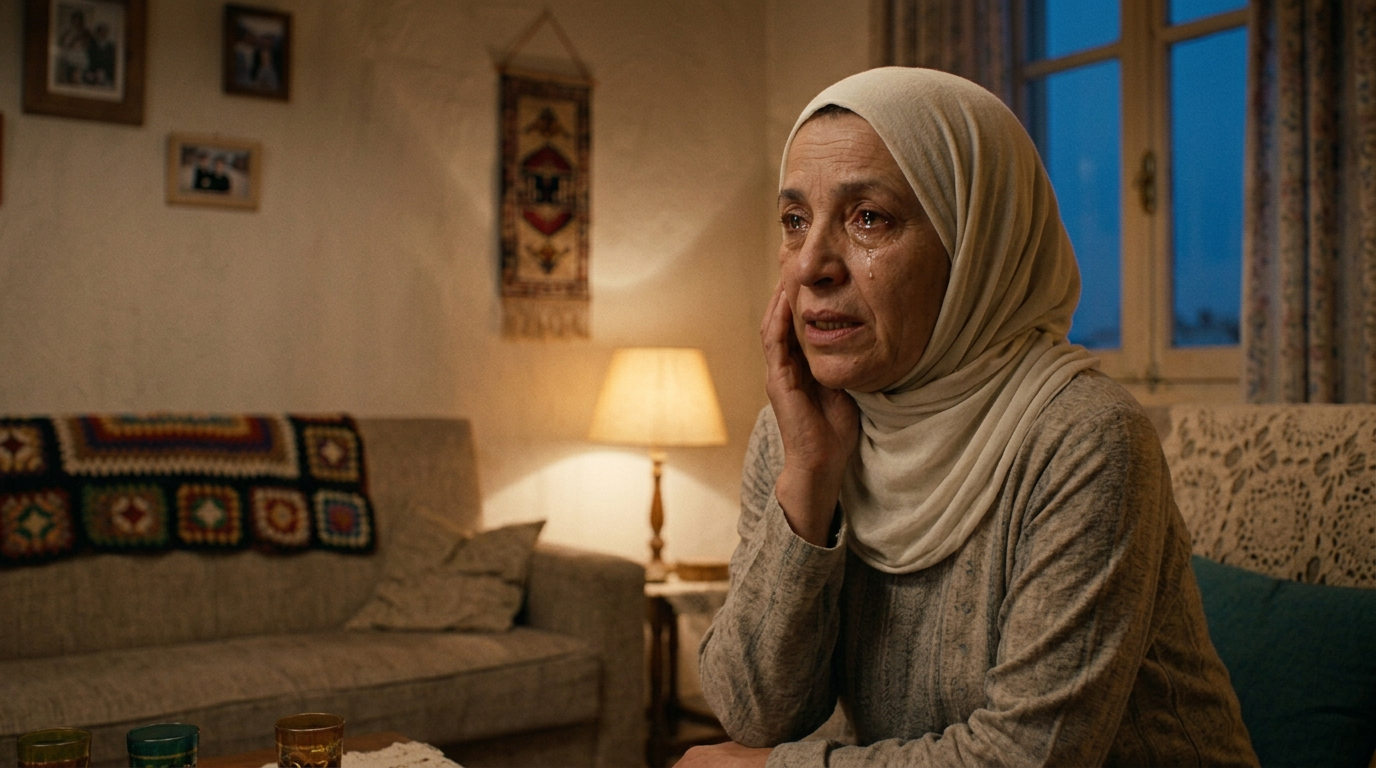
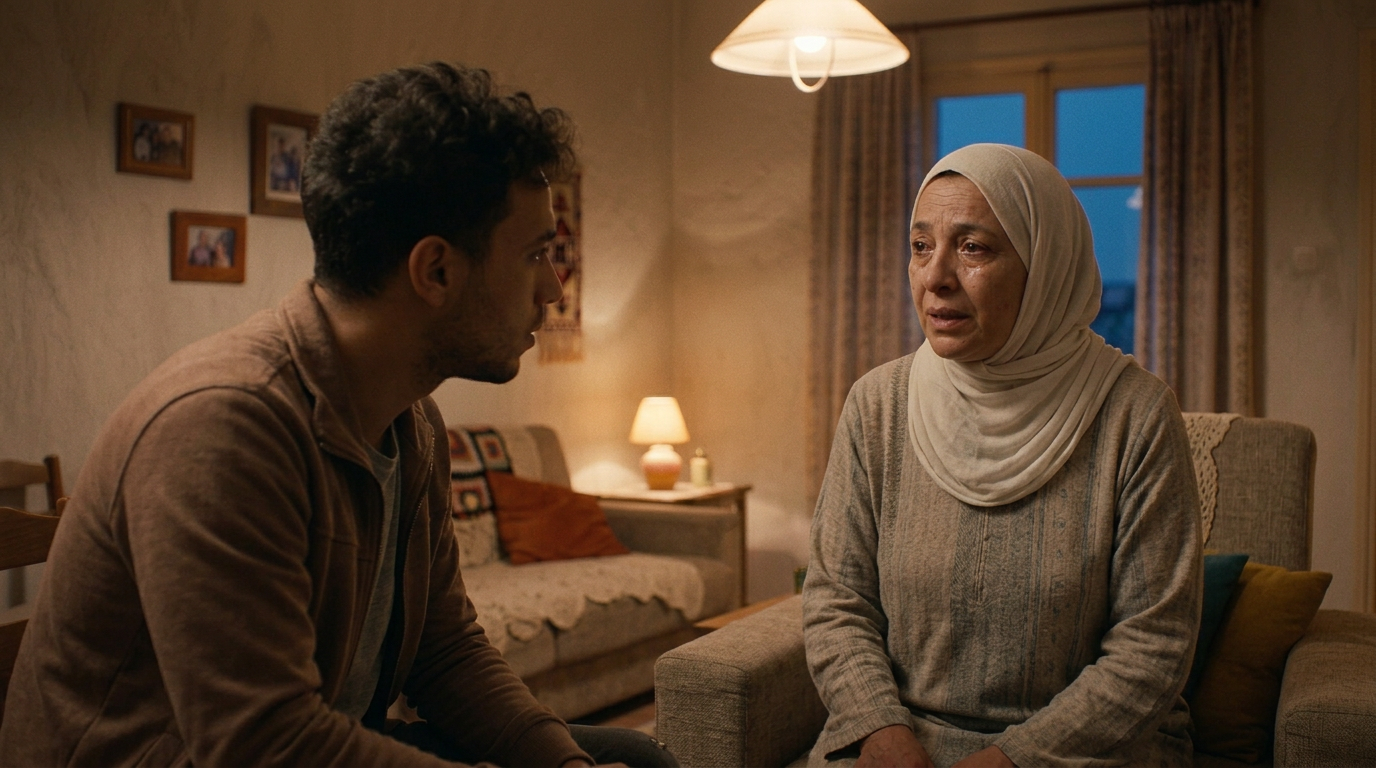
Batch 12: SC19-SC21 rebuilt on V4 anchor (client SC17 production look) + YACINE_WORK outfit reference + SC22-27 client prompts added + continuity table updated

diff --git a/ATHAR_AL_ZAYT_FINAL_FILM/04_FLOW_VIDEO_PROMPTS/SC27_FLOW_PROMPT.md b/ATHAR_AL_ZAYT_FINAL_FILM/04_FLOW_VIDEO_PROMPTS/SC27_FLOW_PROMPT.md
@@ -1,0 +1,60 @@
+# SCENE 27 — الخاتمة المكتملة
+**فيلم «آثار الزيت» | Google Flow | 10 ثوانٍ بالضبط | أفقي 16:9 | نسخة مراجعة الاستمرارية**
+
+## ملخص المشهد
+لقطة سينمائية أفقية واسعة داخل الورشة في ضوء الصباح. الحاج بسترة خضراء وقميص أبيض، أمين ببدلة كحلية والقماش الأحمر في الجيب الخلفي، ياسين ببدلة العمل الجديدة. كل الوجوه مطابقة للمراجع.
+
+## تقسيم الحركة والحوار (10 ثوانٍ)
+- 0–3 ث: لقطة واسعة ثابتة؛ الحاج يراقب أمين وهو يشرح لياسين، ثم يقترب خطوتين بهدوء.
+- 3–7 ث: الحاج يضع يده على كتف ياسين برفق ويقول: «خلي الماضي درس ليك، وابدأ من جديد بالحلال.» ياسين يومئ باحترام.
+- 7–10 ث: لقطة ثابتة واسعة على الثلاثة وهم يرجعون إلى العمل. ابتسامة خفيفة طبيعية، لا مصافحة مبالغ فيها ولا لقطة تتلاشى إلى سواد قبل نهاية المدة.
+
+## GOOGLE FLOW VIDEO PROMPT — COPY READY
+```text
+Create a photorealistic live-action scene from the approved reference images for the Algerian short film “Athar Al-Zayt”. Duration exactly 10 seconds. Horizontal landscape 16:9 only, cinematic widescreen composition.
+
+CONTINUITY IS MANDATORY:
+Use the attached approved reference images for the exact identity of every character and location. Do not redesign faces. Hadj is about 60, wearing the same dark-green casual jacket over a white shirt. Amine is a young mechanic wearing the same dark navy-blue coveralls, with the red cloth visible from his rear pocket. Yassine is a 19-year-old Algerian young man, not a child; his pre-job outfit is a faded brown jacket over a gray T-shirt and dark trousers. His mother wears the same modest beige-gray home dress and light headscarf. The little sister is about two years old. For the later workshop scenes, Yassine wears the approved simple dark navy work outfit. Keep all approved face references exact.
+
+LOCATION / PROPS:
+لقطة سينمائية أفقية واسعة داخل الورشة في ضوء الصباح. الحاج بسترة خضراء وقميص أبيض، أمين ببدلة كحلية والقماش الأحمر في الجيب الخلفي، ياسين ببدلة العمل الجديدة. كل الوجوه مطابقة للمراجع.
+Keep the established room geometry, door positions, furniture, props, light direction and screen geography exactly consistent with the reference images. The money box is wooden with a top lid and handle. In the workshop office it stays on the LEFT side of the wooden desk; the CCTV monitor stays mounted on the wall to the RIGHT of the desk. Do not move or duplicate these objects.
+
+ACTION AND TIMING:
+- 0–3 ث: لقطة واسعة ثابتة؛ الحاج يراقب أمين وهو يشرح لياسين، ثم يقترب خطوتين بهدوء.
+- 3–7 ث: الحاج يضع يده على كتف ياسين برفق ويقول: «خلي الماضي درس ليك، وابدأ من جديد بالحلال.» ياسين يومئ باحترام.
+- 7–10 ث: لقطة ثابتة واسعة على الثلاثة وهم يرجعون إلى العمل. ابتسامة خفيفة طبيعية، لا مصافحة مبالغ فيها ولا لقطة تتلاشى إلى سواد قبل نهاية المدة.
+
+DIALOGUE — natural Algerian Darja only, spoken by native Algerian voices, never Modern Standard Arabic:
+الحاج: «خلي الماضي درس ليك، وابدأ من جديد بالحلال.»
+Only the named speaker speaks during their line. Lip-sync only the visible speaking character. For off-screen dialogue, visible characters must keep their lips still. Keep speech short enough to fit naturally inside the indicated timing; do not overlap lines or invent extra dialogue.
+
+CAMERA:
+Use only the simple camera movement explicitly described in the timed beats. Prefer locked-off shots or one slow motivated move. No orbiting, whip pans, fast zooms, speed ramps, sudden reframing or impossible camera movement. If the beats call for a hard cut, make one clean hard cut only. Keep the geography understandable.
+
+SOUND:
+Use realistic location ambience and the specific small sound effects implied by the action. Keep dialogue clear and in front of the ambience. No loud music, no cartoon effects, no added narration, no extra dialogue. Avoid music during emotional confession scenes.
+
+ENDING FRAME / MATCH CUT:
+آخر إطار: الحاج وأمين وياسين في الورشة، مستعدين للعمل؛ النهاية مغلقة وواضحة: المال رجع، ياسين اعترف وقُبلت توبته وعنده عمل قانوني.
+End on a stable, readable frame that can be edited directly into the next numbered clip. Do not fade out unless this is the final scene.
+
+FORMAT: Horizontal landscape 16:9 only. Never vertical 9:16, never portrait, never square. Keep faces, hands and important props inside the frame.
+```
+
+## NEGATIVE PROMPT — COPY READY
+```text
+No vertical 9:16, no portrait, no square, no reframing to mobile format. No character identity drift, no face changes, no age changes, no clothing changes except the explicitly approved next-day work outfit for Yassine in scenes 25–27. Yassine is 19, not a child. No extra people, no duplicate bodies, no extra fingers, no fused hands, no distorted faces, no floating objects, no prop teleportation, no changing room layout, no moving the wooden desk, money box or wall-mounted monitor. No subtitles, no captions, no watermark, no logos, no random readable text. No Modern Standard Arabic, no Egyptian or Gulf accent. No overlapping dialogue, no lip movement by a silent character. No exaggerated crying, no slapstick, no violence, no threatening gestures. Do not make the customer the thief. Do not end on a cliffhanger.
+```
+
+## 🔗 الربط بالمشهد التالي
+آخر إطار: الحاج وأمين وياسين في الورشة، مستعدين للعمل؛ النهاية مغلقة وواضحة: المال رجع، ياسين اعترف وقُبلت توبته وعنده عمل قانوني.
+
+## فحص سريع قبل اعتماد الفيديو
+- [ ] المدة 10 ثوانٍ بالضبط.
+- [ ] الإطار أفقي 16:9.
+- [ ] الوجوه والملابس مطابقة للمراجع.
+- [ ] المكان والأغراض في المواضع الصحيحة.
+- [ ] الحوار دارجة جزائرية ومزامنة الشفاه صحيحة.
+- [ ] الحركة بسيطة ومنطقية.
+- [ ] آخر إطار متوافق مع بداية المشهد التالي.

diff --git a/ATHAR_AL_ZAYT_FINAL_FILM/04_FLOW_VIDEO_PROMPTS/SC26_FLOW_PROMPT.md b/ATHAR_AL_ZAYT_FINAL_FILM/04_FLOW_VIDEO_PROMPTS/SC26_FLOW_PROMPT.md
@@ -1,0 +1,60 @@
+# SCENE 26 — بداية العمل والتعلّم
+**فيلم «آثار الزيت» | Google Flow | 10 ثوانٍ بالضبط | أفقي 16:9 | نسخة مراجعة الاستمرارية**
+
+## ملخص المشهد
+داخل الورشة نفسها صباحًا. أمين ببدلة كحلية مع قطعة قماش حمراء في الجيب الخلفي؛ ياسين يرتدي بدلة عمل كحلية بسيطة متناسقة. لا توجد أدوات خطرة في أيدي غير المدرّبين.
+
+## تقسيم الحركة والحوار (10 ثوانٍ)
+- 0–3 ث: لقطة متوسطة ثابتة؛ أمين يشير إلى أداة يدوية آمنة على طاولة العمل ويشرح لياسين.
+- 3–7 ث: أمين يناوله الأداة بطريقة واضحة، وياسين يستلمها بيده اليمنى وينظر إلى القطعة باهتمام.
+- 7–10 ث: أمين يقول: «تعلّم شوية بشوية، الخدمة بالأمانة.» ياسين يجيب: «إن شاء الله، نكون قدّها.»
+
+## GOOGLE FLOW VIDEO PROMPT — COPY READY
+```text
+Create a photorealistic live-action scene from the approved reference images for the Algerian short film “Athar Al-Zayt”. Duration exactly 10 seconds. Horizontal landscape 16:9 only, cinematic widescreen composition.
+
+CONTINUITY IS MANDATORY:
+Use the attached approved reference images for the exact identity of every character and location. Do not redesign faces. Hadj is about 60, wearing the same dark-green casual jacket over a white shirt. Amine is a young mechanic wearing the same dark navy-blue coveralls, with the red cloth visible from his rear pocket. Yassine is a 19-year-old Algerian young man, not a child; his pre-job outfit is a faded brown jacket over a gray T-shirt and dark trousers. His mother wears the same modest beige-gray home dress and light headscarf. The little sister is about two years old. For the later workshop scenes, Yassine wears the approved simple dark navy work outfit. Keep all approved face references exact.
+
+LOCATION / PROPS:
+داخل الورشة نفسها صباحًا. أمين ببدلة كحلية مع قطعة قماش حمراء في الجيب الخلفي؛ ياسين يرتدي بدلة عمل كحلية بسيطة متناسقة. لا توجد أدوات خطرة في أيدي غير المدرّبين.
+Keep the established room geometry, door positions, furniture, props, light direction and screen geography exactly consistent with the reference images. The money box is wooden with a top lid and handle. In the workshop office it stays on the LEFT side of the wooden desk; the CCTV monitor stays mounted on the wall to the RIGHT of the desk. Do not move or duplicate these objects.
+
+ACTION AND TIMING:
+- 0–3 ث: لقطة متوسطة ثابتة؛ أمين يشير إلى أداة يدوية آمنة على طاولة العمل ويشرح لياسين.
+- 3–7 ث: أمين يناوله الأداة بطريقة واضحة، وياسين يستلمها بيده اليمنى وينظر إلى القطعة باهتمام.
+- 7–10 ث: أمين يقول: «تعلّم شوية بشوية، الخدمة بالأمانة.» ياسين يجيب: «إن شاء الله، نكون قدّها.»
+
+DIALOGUE — natural Algerian Darja only, spoken by native Algerian voices, never Modern Standard Arabic:
+أمين: «تعلّم شوية بشوية، الخدمة بالأمانة.» ياسين: «إن شاء الله، نكون قدّها.»
+Only the named speaker speaks during their line. Lip-sync only the visible speaking character. For off-screen dialogue, visible characters must keep their lips still. Keep speech short enough to fit naturally inside the indicated timing; do not overlap lines or invent extra dialogue.
+
+CAMERA:
+Use only the simple camera movement explicitly described in the timed beats. Prefer locked-off shots or one slow motivated move. No orbiting, whip pans, fast zooms, speed ramps, sudden reframing or impossible camera movement. If the beats call for a hard cut, make one clean hard cut only. Keep the geography understandable.
+
+SOUND:
+Use realistic location ambience and the specific small sound effects implied by the action. Keep dialogue clear and in front of the ambience. No loud music, no cartoon effects, no added narration, no extra dialogue. Avoid music during emotional confession scenes.
+
+ENDING FRAME / MATCH CUT:
+آخر إطار: أمين وياسين جنبًا إلى جنب عند طاولة العمل؛ SC27 ينهي الفيلم بلقطة مكتملة داخل الورشة.
+End on a stable, readable frame that can be edited directly into the next numbered clip. Do not fade out unless this is the final scene.
+
+FORMAT: Horizontal landscape 16:9 only. Never vertical 9:16, never portrait, never square. Keep faces, hands and important props inside the frame.
+```
+
+## NEGATIVE PROMPT — COPY READY
+```text
+No vertical 9:16, no portrait, no square, no reframing to mobile format. No character identity drift, no face changes, no age changes, no clothing changes except the explicitly approved next-day work outfit for Yassine in scenes 25–27. Yassine is 19, not a child. No extra people, no duplicate bodies, no extra fingers, no fused hands, no distorted faces, no floating objects, no prop teleportation, no changing room layout, no moving the wooden desk, money box or wall-mounted monitor. No subtitles, no captions, no watermark, no logos, no random readable text. No Modern Standard Arabic, no Egyptian or Gulf accent. No overlapping dialogue, no lip movement by a silent character. No exaggerated crying, no slapstick, no violence, no threatening gestures. Do not make the customer the thief. Do not end on a cliffhanger.
+```
+
+## 🔗 الربط بالمشهد التالي
+آخر إطار: أمين وياسين جنبًا إلى جنب عند طاولة العمل؛ SC27 ينهي الفيلم بلقطة مكتملة داخل الورشة.
+
+## فحص سريع قبل اعتماد الفيديو
+- [ ] المدة 10 ثوانٍ بالضبط.
+- [ ] الإطار أفقي 16:9.
+- [ ] الوجوه والملابس مطابقة للمراجع.
+- [ ] المكان والأغراض في المواضع الصحيحة.
+- [ ] الحوار دارجة جزائرية ومزامنة الشفاه صحيحة.
+- [ ] الحركة بسيطة ومنطقية.
+- [ ] آخر إطار متوافق مع بداية المشهد التالي.

diff --git a/ATHAR_AL_ZAYT_FINAL_FILM/04_FLOW_VIDEO_PROMPTS/SC25_FLOW_PROMPT.md b/ATHAR_AL_ZAYT_FINAL_FILM/04_FLOW_VIDEO_PROMPTS/SC25_FLOW_PROMPT.md
@@ -1,0 +1,60 @@
+# SCENE 25 — صباح جديد في الورشة
+**فيلم «آثار الزيت» | Google Flow | 10 ثوانٍ بالضبط | أفقي 16:9 | نسخة مراجعة الاستمرارية**
+
+## ملخص المشهد
+نفس ورشة السيارات من مشاهد البداية، لكن في صباح اليوم التالي. نفس الأدوات والسيارة، المكتب الخشبي والصندوق والشاشة في أماكنها الثابتة.
+
+## تقسيم الحركة والحوار (10 ثوانٍ)
+- 0–3 ث: لقطة واسعة ثابتة للورشة في ضوء الصباح؛ أمين يعمل قرب سيارة مرفوعة بأمان على منصة مناسبة.
+- 3–7 ث: يدخل ياسين بملابس العمل الجديدة البسيطة: بدلة ميكانيكي كحلية داكنة نظيفة، من دون تغيير وجهه؛ يقف قرب أمين وينتظر التوجيه.
+- 7–10 ث: أمين يلتفت إليه ويقول بابتسامة خفيفة: «صباح الخير، يلا نبداو.» ياسين يرد: «صباح النور.»
+
+## GOOGLE FLOW VIDEO PROMPT — COPY READY
+```text
+Create a photorealistic live-action scene from the approved reference images for the Algerian short film “Athar Al-Zayt”. Duration exactly 10 seconds. Horizontal landscape 16:9 only, cinematic widescreen composition.
+
+CONTINUITY IS MANDATORY:
+Use the attached approved reference images for the exact identity of every character and location. Do not redesign faces. Hadj is about 60, wearing the same dark-green casual jacket over a white shirt. Amine is a young mechanic wearing the same dark navy-blue coveralls, with the red cloth visible from his rear pocket. Yassine is a 19-year-old Algerian young man, not a child; his pre-job outfit is a faded brown jacket over a gray T-shirt and dark trousers. His mother wears the same modest beige-gray home dress and light headscarf. The little sister is about two years old. For the later workshop scenes, Yassine wears the approved simple dark navy work outfit. Keep all approved face references exact.
+
+LOCATION / PROPS:
+نفس ورشة السيارات من مشاهد البداية، لكن في صباح اليوم التالي. نفس الأدوات والسيارة، المكتب الخشبي والصندوق والشاشة في أماكنها الثابتة.
+Keep the established room geometry, door positions, furniture, props, light direction and screen geography exactly consistent with the reference images. The money box is wooden with a top lid and handle. In the workshop office it stays on the LEFT side of the wooden desk; the CCTV monitor stays mounted on the wall to the RIGHT of the desk. Do not move or duplicate these objects.
+
+ACTION AND TIMING:
+- 0–3 ث: لقطة واسعة ثابتة للورشة في ضوء الصباح؛ أمين يعمل قرب سيارة مرفوعة بأمان على منصة مناسبة.
+- 3–7 ث: يدخل ياسين بملابس العمل الجديدة البسيطة: بدلة ميكانيكي كحلية داكنة نظيفة، من دون تغيير وجهه؛ يقف قرب أمين وينتظر التوجيه.
+- 7–10 ث: أمين يلتفت إليه ويقول بابتسامة خفيفة: «صباح الخير، يلا نبداو.» ياسين يرد: «صباح النور.»
+
+DIALOGUE — natural Algerian Darja only, spoken by native Algerian voices, never Modern Standard Arabic:
+أمين: «صباح الخير، يلا نبداو.» ياسين: «صباح النور.»
+Only the named speaker speaks during their line. Lip-sync only the visible speaking character. For off-screen dialogue, visible characters must keep their lips still. Keep speech short enough to fit naturally inside the indicated timing; do not overlap lines or invent extra dialogue.
+
+CAMERA:
+Use only the simple camera movement explicitly described in the timed beats. Prefer locked-off shots or one slow motivated move. No orbiting, whip pans, fast zooms, speed ramps, sudden reframing or impossible camera movement. If the beats call for a hard cut, make one clean hard cut only. Keep the geography understandable.
+
+SOUND:
+Use realistic location ambience and the specific small sound effects implied by the action. Keep dialogue clear and in front of the ambience. No loud music, no cartoon effects, no added narration, no extra dialogue. Avoid music during emotional confession scenes.
+
+ENDING FRAME / MATCH CUT:
+آخر إطار: أمين وياسين واقفان قرب السيارة مستعدّين للعمل؛ SC26 يكمل تدريب ياسين.
+End on a stable, readable frame that can be edited directly into the next numbered clip. Do not fade out unless this is the final scene.
+
+FORMAT: Horizontal landscape 16:9 only. Never vertical 9:16, never portrait, never square. Keep faces, hands and important props inside the frame.
+```
+
+## NEGATIVE PROMPT — COPY READY
+```text
+No vertical 9:16, no portrait, no square, no reframing to mobile format. No character identity drift, no face changes, no age changes, no clothing changes except the explicitly approved next-day work outfit for Yassine in scenes 25–27. Yassine is 19, not a child. No extra people, no duplicate bodies, no extra fingers, no fused hands, no distorted faces, no floating objects, no prop teleportation, no changing room layout, no moving the wooden desk, money box or wall-mounted monitor. No subtitles, no captions, no watermark, no logos, no random readable text. No Modern Standard Arabic, no Egyptian or Gulf accent. No overlapping dialogue, no lip movement by a silent character. No exaggerated crying, no slapstick, no violence, no threatening gestures. Do not make the customer the thief. Do not end on a cliffhanger.
+```
+
+## 🔗 الربط بالمشهد التالي
+آخر إطار: أمين وياسين واقفان قرب السيارة مستعدّين للعمل؛ SC26 يكمل تدريب ياسين.
+
+## فحص سريع قبل اعتماد الفيديو
+- [ ] المدة 10 ثوانٍ بالضبط.
+- [ ] الإطار أفقي 16:9.
+- [ ] الوجوه والملابس مطابقة للمراجع.
+- [ ] المكان والأغراض في المواضع الصحيحة.
+- [ ] الحوار دارجة جزائرية ومزامنة الشفاه صحيحة.
+- [ ] الحركة بسيطة ومنطقية.
+- [ ] آخر إطار متوافق مع بداية المشهد التالي.

diff --git a/ATHAR_AL_ZAYT_FINAL_FILM/04_FLOW_VIDEO_PROMPTS/SC24_FLOW_PROMPT.md b/ATHAR_AL_ZAYT_FINAL_FILM/04_FLOW_VIDEO_PROMPTS/SC24_FLOW_PROMPT.md
@@ -1,0 +1,60 @@
+# SCENE 24 — ياسين يقبل الفرصة
+**فيلم «آثار الزيت» | Google Flow | 10 ثوانٍ بالضبط | أفقي 16:9 | نسخة مراجعة الاستمرارية**
+
+## ملخص المشهد
+نفس غرفة الجلوس وخريطة المواضع نفسها. ياسين في الوسط، الحاج جالس يسار الكنبة، الأم يمينها، أمين على كرسي يمين الكنبة.
+
+## تقسيم الحركة والحوار (10 ثوانٍ)
+- 0–3 ث: لقطة متوسطة على ياسين؛ يرفع رأسه للمرة الأولى، وتخفّ ملامح الخوف.
+- 3–7 ث: ياسين يقول بصدق: «نقبل يا الحاج… ربي يجازيك خير. ما نخيّبكش.»
+- 7–10 ث: الأم تضع يدها على صدرها بارتياح وتبتسم ابتسامة صغيرة، بينما الحاج يومئ مرة واحدة.
+
+## GOOGLE FLOW VIDEO PROMPT — COPY READY
+```text
+Create a photorealistic live-action scene from the approved reference images for the Algerian short film “Athar Al-Zayt”. Duration exactly 10 seconds. Horizontal landscape 16:9 only, cinematic widescreen composition.
+
+CONTINUITY IS MANDATORY:
+Use the attached approved reference images for the exact identity of every character and location. Do not redesign faces. Hadj is about 60, wearing the same dark-green casual jacket over a white shirt. Amine is a young mechanic wearing the same dark navy-blue coveralls, with the red cloth visible from his rear pocket. Yassine is a 19-year-old Algerian young man, not a child; his pre-job outfit is a faded brown jacket over a gray T-shirt and dark trousers. His mother wears the same modest beige-gray home dress and light headscarf. The little sister is about two years old. For the later workshop scenes, Yassine wears the approved simple dark navy work outfit. Keep all approved face references exact.
+
+LOCATION / PROPS:
+نفس غرفة الجلوس وخريطة المواضع نفسها. ياسين في الوسط، الحاج جالس يسار الكنبة، الأم يمينها، أمين على كرسي يمين الكنبة.
+Keep the established room geometry, door positions, furniture, props, light direction and screen geography exactly consistent with the reference images. The money box is wooden with a top lid and handle. In the workshop office it stays on the LEFT side of the wooden desk; the CCTV monitor stays mounted on the wall to the RIGHT of the desk. Do not move or duplicate these objects.
+
+ACTION AND TIMING:
+- 0–3 ث: لقطة متوسطة على ياسين؛ يرفع رأسه للمرة الأولى، وتخفّ ملامح الخوف.
+- 3–7 ث: ياسين يقول بصدق: «نقبل يا الحاج… ربي يجازيك خير. ما نخيّبكش.»
+- 7–10 ث: الأم تضع يدها على صدرها بارتياح وتبتسم ابتسامة صغيرة، بينما الحاج يومئ مرة واحدة.
+
+DIALOGUE — natural Algerian Darja only, spoken by native Algerian voices, never Modern Standard Arabic:
+ياسين: «نقبل يا الحاج… ربي يجازيك خير. ما نخيّبكش.»
+Only the named speaker speaks during their line. Lip-sync only the visible speaking character. For off-screen dialogue, visible characters must keep their lips still. Keep speech short enough to fit naturally inside the indicated timing; do not overlap lines or invent extra dialogue.
+
+CAMERA:
+Use only the simple camera movement explicitly described in the timed beats. Prefer locked-off shots or one slow motivated move. No orbiting, whip pans, fast zooms, speed ramps, sudden reframing or impossible camera movement. If the beats call for a hard cut, make one clean hard cut only. Keep the geography understandable.
+
+SOUND:
+Use realistic location ambience and the specific small sound effects implied by the action. Keep dialogue clear and in front of the ambience. No loud music, no cartoon effects, no added narration, no extra dialogue. Avoid music during emotional confession scenes.
+
+ENDING FRAME / MATCH CUT:
+آخر إطار: ياسين واقف بوجه أكثر هدوءًا، والأم مرتاحة؛ SC25 ينتقل إلى صباح اليوم التالي في الورشة.
+End on a stable, readable frame that can be edited directly into the next numbered clip. Do not fade out unless this is the final scene.
+
+FORMAT: Horizontal landscape 16:9 only. Never vertical 9:16, never portrait, never square. Keep faces, hands and important props inside the frame.
+```
+
+## NEGATIVE PROMPT — COPY READY
+```text
+No vertical 9:16, no portrait, no square, no reframing to mobile format. No character identity drift, no face changes, no age changes, no clothing changes except the explicitly approved next-day work outfit for Yassine in scenes 25–27. Yassine is 19, not a child. No extra people, no duplicate bodies, no extra fingers, no fused hands, no distorted faces, no floating objects, no prop teleportation, no changing room layout, no moving the wooden desk, money box or wall-mounted monitor. No subtitles, no captions, no watermark, no logos, no random readable text. No Modern Standard Arabic, no Egyptian or Gulf accent. No overlapping dialogue, no lip movement by a silent character. No exaggerated crying, no slapstick, no violence, no threatening gestures. Do not make the customer the thief. Do not end on a cliffhanger.
+```
+
+## 🔗 الربط بالمشهد التالي
+آخر إطار: ياسين واقف بوجه أكثر هدوءًا، والأم مرتاحة؛ SC25 ينتقل إلى صباح اليوم التالي في الورشة.
+
+## فحص سريع قبل اعتماد الفيديو
+- [ ] المدة 10 ثوانٍ بالضبط.
+- [ ] الإطار أفقي 16:9.
+- [ ] الوجوه والملابس مطابقة للمراجع.
+- [ ] المكان والأغراض في المواضع الصحيحة.
+- [ ] الحوار دارجة جزائرية ومزامنة الشفاه صحيحة.
+- [ ] الحركة بسيطة ومنطقية.
+- [ ] آخر إطار متوافق مع بداية المشهد التالي.

diff --git a/ATHAR_AL_ZAYT_FINAL_FILM/04_FLOW_VIDEO_PROMPTS/SC22_FLOW_PROMPT.md b/ATHAR_AL_ZAYT_FINAL_FILM/04_FLOW_VIDEO_PROMPTS/SC22_FLOW_PROMPT.md
@@ -1,0 +1,60 @@
+# SCENE 22 — تحمل المسؤولية والمسامحة
+**فيلم «آثار الزيت» | Google Flow | 10 ثوانٍ بالضبط | أفقي 16:9 | نسخة مراجعة الاستمرارية**
+
+## ملخص المشهد
+نفس غرفة الجلوس، نفس المواضع. الحاج يمسك المال بأمان؛ ياسين يقف أمامه، الأم وأمين يستمعان.
+
+## تقسيم الحركة والحوار (10 ثوانٍ)
+- 0–3 ث: لقطة ثابتة متوسطة؛ ياسين ينظر إلى الحاج ويقول بصدق: «ما نعاودهاش يا الحاج. سامحني.»
+- 3–7 ث: الحاج يجيب بهدوء: «نسامحك، بصح لازم تتعلّم الأمانة وتبقى صريح.»
+- 7–10 ث: الحاج يضع المال بأمان على الطاولة المنخفضة أمامه؛ لا يختفي المال ولا يتضاعف.
+
+## GOOGLE FLOW VIDEO PROMPT — COPY READY
+```text
+Create a photorealistic live-action scene from the approved reference images for the Algerian short film “Athar Al-Zayt”. Duration exactly 10 seconds. Horizontal landscape 16:9 only, cinematic widescreen composition.
+
+CONTINUITY IS MANDATORY:
+Use the attached approved reference images for the exact identity of every character and location. Do not redesign faces. Hadj is about 60, wearing the same dark-green casual jacket over a white shirt. Amine is a young mechanic wearing the same dark navy-blue coveralls, with the red cloth visible from his rear pocket. Yassine is a 19-year-old Algerian young man, not a child; his pre-job outfit is a faded brown jacket over a gray T-shirt and dark trousers. His mother wears the same modest beige-gray home dress and light headscarf. The little sister is about two years old. For the later workshop scenes, Yassine wears the approved simple dark navy work outfit. Keep all approved face references exact.
+
+LOCATION / PROPS:
+نفس غرفة الجلوس، نفس المواضع. الحاج يمسك المال بأمان؛ ياسين يقف أمامه، الأم وأمين يستمعان.
+Keep the established room geometry, door positions, furniture, props, light direction and screen geography exactly consistent with the reference images. The money box is wooden with a top lid and handle. In the workshop office it stays on the LEFT side of the wooden desk; the CCTV monitor stays mounted on the wall to the RIGHT of the desk. Do not move or duplicate these objects.
+
+ACTION AND TIMING:
+- 0–3 ث: لقطة ثابتة متوسطة؛ ياسين ينظر إلى الحاج ويقول بصدق: «ما نعاودهاش يا الحاج. سامحني.»
+- 3–7 ث: الحاج يجيب بهدوء: «نسامحك، بصح لازم تتعلّم الأمانة وتبقى صريح.»
+- 7–10 ث: الحاج يضع المال بأمان على الطاولة المنخفضة أمامه؛ لا يختفي المال ولا يتضاعف.
+
+DIALOGUE — natural Algerian Darja only, spoken by native Algerian voices, never Modern Standard Arabic:
+ياسين: «ما نعاودهاش يا الحاج. سامحني.» الحاج: «نسامحك، بصح لازم تتعلّم الأمانة وتبقى صريح.»
+Only the named speaker speaks during their line. Lip-sync only the visible speaking character. For off-screen dialogue, visible characters must keep their lips still. Keep speech short enough to fit naturally inside the indicated timing; do not overlap lines or invent extra dialogue.
+
+CAMERA:
+Use only the simple camera movement explicitly described in the timed beats. Prefer locked-off shots or one slow motivated move. No orbiting, whip pans, fast zooms, speed ramps, sudden reframing or impossible camera movement. If the beats call for a hard cut, make one clean hard cut only. Keep the geography understandable.
+
+SOUND:
+Use realistic location ambience and the specific small sound effects implied by the action. Keep dialogue clear and in front of the ambience. No loud music, no cartoon effects, no added narration, no extra dialogue. Avoid music during emotional confession scenes.
+
+ENDING FRAME / MATCH CUT:
+آخر إطار: المال ظاهر على الطاولة قرب الحاج، والجميع هادئ؛ SC23 يبدأ بعرض العمل.
+End on a stable, readable frame that can be edited directly into the next numbered clip. Do not fade out unless this is the final scene.
+
+FORMAT: Horizontal landscape 16:9 only. Never vertical 9:16, never portrait, never square. Keep faces, hands and important props inside the frame.
+```
+
+## NEGATIVE PROMPT — COPY READY
+```text
+No vertical 9:16, no portrait, no square, no reframing to mobile format. No character identity drift, no face changes, no age changes, no clothing changes except the explicitly approved next-day work outfit for Yassine in scenes 25–27. Yassine is 19, not a child. No extra people, no duplicate bodies, no extra fingers, no fused hands, no distorted faces, no floating objects, no prop teleportation, no changing room layout, no moving the wooden desk, money box or wall-mounted monitor. No subtitles, no captions, no watermark, no logos, no random readable text. No Modern Standard Arabic, no Egyptian or Gulf accent. No overlapping dialogue, no lip movement by a silent character. No exaggerated crying, no slapstick, no violence, no threatening gestures. Do not make the customer the thief. Do not end on a cliffhanger.
+```
+
+## 🔗 الربط بالمشهد التالي
+آخر إطار: المال ظاهر على الطاولة قرب الحاج، والجميع هادئ؛ SC23 يبدأ بعرض العمل.
+
+## فحص سريع قبل اعتماد الفيديو
+- [ ] المدة 10 ثوانٍ بالضبط.
+- [ ] الإطار أفقي 16:9.
+- [ ] الوجوه والملابس مطابقة للمراجع.
+- [ ] المكان والأغراض في المواضع الصحيحة.
+- [ ] الحوار دارجة جزائرية ومزامنة الشفاه صحيحة.
+- [ ] الحركة بسيطة ومنطقية.
+- [ ] آخر إطار متوافق مع بداية المشهد التالي.

diff --git a/ATHAR_AL_ZAYT_FINAL_FILM/04_FLOW_VIDEO_PROMPTS/SC23_FLOW_PROMPT.md b/ATHAR_AL_ZAYT_FINAL_FILM/04_FLOW_VIDEO_PROMPTS/SC23_FLOW_PROMPT.md
@@ -1,0 +1,60 @@
+# SCENE 23 — عرض العمل الحلال
+**فيلم «آثار الزيت» | Google Flow | 10 ثوانٍ بالضبط | أفقي 16:9 | نسخة مراجعة الاستمرارية**
+
+## ملخص المشهد
+نفس غرفة الجلوس. الحاج على يسار الكنبة، أمين على الكرسي إلى اليمين، ياسين واقف في الوسط، الأم جالسة في طرف الكنبة.
+
+## تقسيم الحركة والحوار (10 ثوانٍ)
+- 0–3 ث: الحاج ينظر إلى ياسين ويقول: «إذا حاب تبدّل حياتك، عندي لك خدمة في الورشة.»
+- 3–7 ث: الحاج يكمل: «تخدم مع أمين، تتعلّم وتربح بالحلال.»
+- 7–10 ث: أمين ينظر إلى ياسين ويومئ مشجعًا، من دون أن يتكلم أو يغيّر مكانه.
+
+## GOOGLE FLOW VIDEO PROMPT — COPY READY
+```text
+Create a photorealistic live-action scene from the approved reference images for the Algerian short film “Athar Al-Zayt”. Duration exactly 10 seconds. Horizontal landscape 16:9 only, cinematic widescreen composition.
+
+CONTINUITY IS MANDATORY:
+Use the attached approved reference images for the exact identity of every character and location. Do not redesign faces. Hadj is about 60, wearing the same dark-green casual jacket over a white shirt. Amine is a young mechanic wearing the same dark navy-blue coveralls, with the red cloth visible from his rear pocket. Yassine is a 19-year-old Algerian young man, not a child; his pre-job outfit is a faded brown jacket over a gray T-shirt and dark trousers. His mother wears the same modest beige-gray home dress and light headscarf. The little sister is about two years old. For the later workshop scenes, Yassine wears the approved simple dark navy work outfit. Keep all approved face references exact.
+
+LOCATION / PROPS:
+نفس غرفة الجلوس. الحاج على يسار الكنبة، أمين على الكرسي إلى اليمين، ياسين واقف في الوسط، الأم جالسة في طرف الكنبة.
+Keep the established room geometry, door positions, furniture, props, light direction and screen geography exactly consistent with the reference images. The money box is wooden with a top lid and handle. In the workshop office it stays on the LEFT side of the wooden desk; the CCTV monitor stays mounted on the wall to the RIGHT of the desk. Do not move or duplicate these objects.
+
+ACTION AND TIMING:
+- 0–3 ث: الحاج ينظر إلى ياسين ويقول: «إذا حاب تبدّل حياتك، عندي لك خدمة في الورشة.»
+- 3–7 ث: الحاج يكمل: «تخدم مع أمين، تتعلّم وتربح بالحلال.»
+- 7–10 ث: أمين ينظر إلى ياسين ويومئ مشجعًا، من دون أن يتكلم أو يغيّر مكانه.
+
+DIALOGUE — natural Algerian Darja only, spoken by native Algerian voices, never Modern Standard Arabic:
+الحاج: «إذا حاب تبدّل حياتك، عندي لك خدمة في الورشة. تخدم مع أمين، تتعلّم وتربح بالحلال.»
+Only the named speaker speaks during their line. Lip-sync only the visible speaking character. For off-screen dialogue, visible characters must keep their lips still. Keep speech short enough to fit naturally inside the indicated timing; do not overlap lines or invent extra dialogue.
+
+CAMERA:
+Use only the simple camera movement explicitly described in the timed beats. Prefer locked-off shots or one slow motivated move. No orbiting, whip pans, fast zooms, speed ramps, sudden reframing or impossible camera movement. If the beats call for a hard cut, make one clean hard cut only. Keep the geography understandable.
+
+SOUND:
+Use realistic location ambience and the specific small sound effects implied by the action. Keep dialogue clear and in front of the ambience. No loud music, no cartoon effects, no added narration, no extra dialogue. Avoid music during emotional confession scenes.
+
+ENDING FRAME / MATCH CUT:
+آخر إطار: ياسين ينظر إلى الحاج بدهشة وأمل حذر؛ SC24 يبدأ بردّه.
+End on a stable, readable frame that can be edited directly into the next numbered clip. Do not fade out unless this is the final scene.
+
+FORMAT: Horizontal landscape 16:9 only. Never vertical 9:16, never portrait, never square. Keep faces, hands and important props inside the frame.
+```
+
+## NEGATIVE PROMPT — COPY READY
+```text
+No vertical 9:16, no portrait, no square, no reframing to mobile format. No character identity drift, no face changes, no age changes, no clothing changes except the explicitly approved next-day work outfit for Yassine in scenes 25–27. Yassine is 19, not a child. No extra people, no duplicate bodies, no extra fingers, no fused hands, no distorted faces, no floating objects, no prop teleportation, no changing room layout, no moving the wooden desk, money box or wall-mounted monitor. No subtitles, no captions, no watermark, no logos, no random readable text. No Modern Standard Arabic, no Egyptian or Gulf accent. No overlapping dialogue, no lip movement by a silent character. No exaggerated crying, no slapstick, no violence, no threatening gestures. Do not make the customer the thief. Do not end on a cliffhanger.
+```
+
+## 🔗 الربط بالمشهد التالي
+آخر إطار: ياسين ينظر إلى الحاج بدهشة وأمل حذر؛ SC24 يبدأ بردّه.
+
+## فحص سريع قبل اعتماد الفيديو
+- [ ] المدة 10 ثوانٍ بالضبط.
+- [ ] الإطار أفقي 16:9.
+- [ ] الوجوه والملابس مطابقة للمراجع.
+- [ ] المكان والأغراض في المواضع الصحيحة.
+- [ ] الحوار دارجة جزائرية ومزامنة الشفاه صحيحة.
+- [ ] الحركة بسيطة ومنطقية.
+- [ ] آخر إطار متوافق مع بداية المشهد التالي.

diff --git a/ATHAR_AL_ZAYT_FINAL_FILM/05_CONTINUITY_CHECKS/CONTINUITY_TABLE.md b/ATHAR_AL_ZAYT_FINAL_FILM/05_CONTINUITY_CHECKS/CONTINUITY_TABLE.md
@@ -34,14 +34,14 @@
 | SC15 | 🔍 | 🔍 | 🔍 | — | 🔍 |  |
 | SC16 | 🔍 | 🔍 | 🔍 | — | 🔍 |  |
 | SC17 | 🔍 | 🔍 | 🔍 | — | 🔍 | الاعتراف — بكاء مضبوط |
-| SC18 | 🔍 | 🔍 | 🔍 | — | 🔍 | أُعيدت V3: ياسين جالس بجوار الحاج (مذكرة العميل) |
-| SC19 | ⏳ | ⏳ | ⏳ | — | ⏳ | الأم فقط تتحدث |
-| SC20 | 🔍 | 🔍 | 🔍 | — | 🔍 | ياسين جالس (استمرارية) |
-| SC21 | 🔍 | ⏳ | ⏳ | ⏳ | 🔍 | A فقط — ياسين واقف للتسليم |
+| SC18 | 🔍 | 🔍 | 🔍 | — | 🔍 | V4: مبنية على إطار نهاية SC17 من إنتاج العميل — نفس الزاوية والمواضع والتدرج |
+| SC19 | 🔍 | 🔍 | 🔍 | — | 🔍 | على مرجع V4 — A متوسطة على الأم (نبضة العميل 0-3ث) |
+| SC20 | 🔍 | 🔍 | 🔍 | — | 🔍 | على مرجع V4 — ياسين جالس (استمرارية) |
+| SC21 | 🔍 | 🔍 | 🔍 | — | 🔍 | كاملة على V4: نهوض + إخراج الرزمة + تسليم بكلتا اليدين + المال بيد الحاج |
 | SC22 | ⏳ | ⏳ | ⏳ | — | ⏳ |  |
 | SC23 | ⏳ | ⏳ | ⏳ | — | ⏳ |  |
 | SC24 | ⏳ | ⏳ | ⏳ | — | ⏳ |  |
-| SC25 | ⏳ | ⏳ | ⏳ | — | ⏳ |  |
+| SC25 | ⏳ | ⏳ | ⏳ | — | ⏳ | مرجع ملابس العمل جاهز: YACINE_WORK_REFERENCE (كحلية بسيطة بلا أحمر) |
 | SC26 | ⏳ | ⏳ | ⏳ | — | ⏳ |  |
 | SC27 | ⏳ | ⏳ | ⏳ | — | ⏳ | الخاتمة المكتملة |
 
